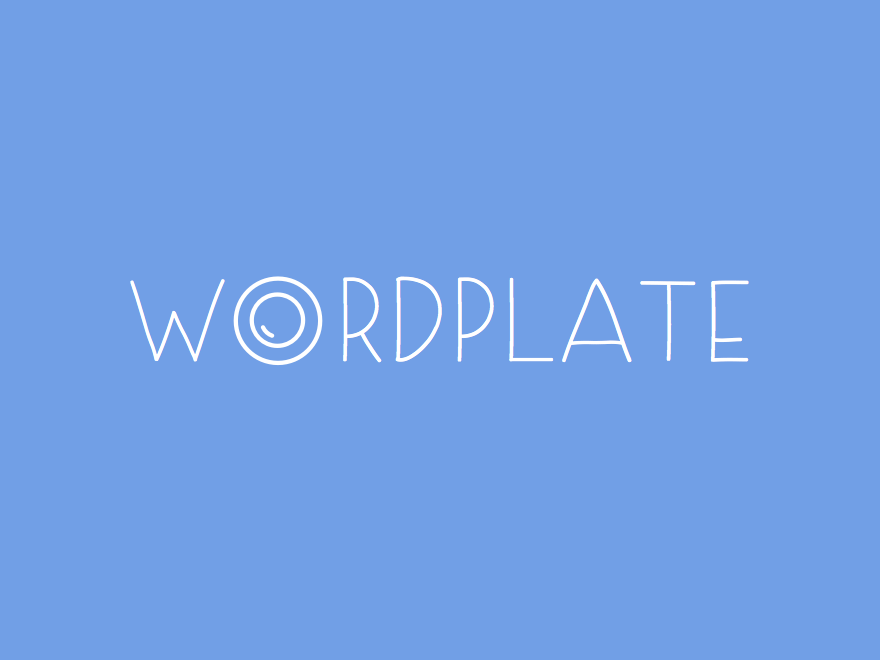
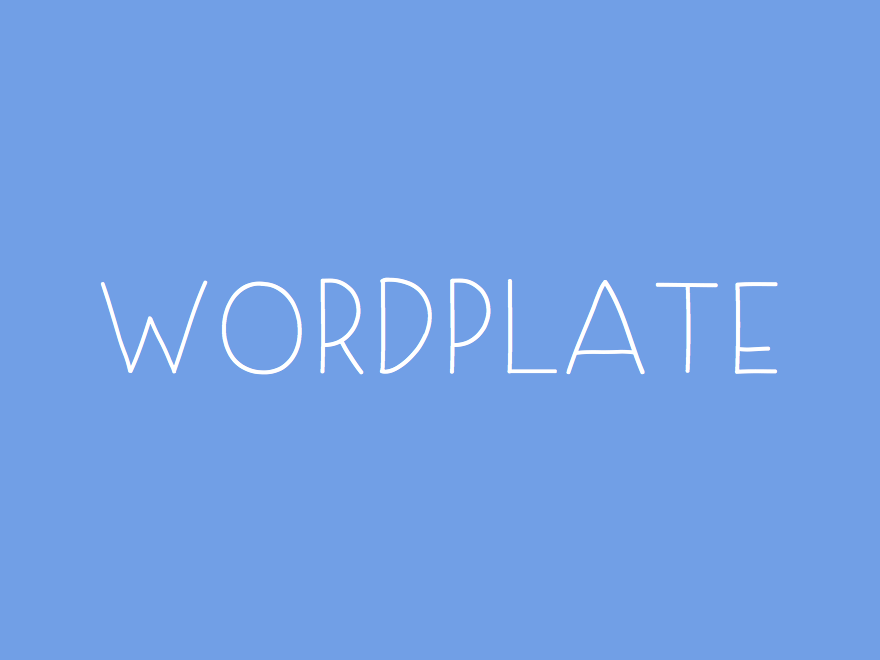
Update images

Changed region(s): [[0.092, 0.3939, 0.8898, 0.5758]]

diff --git a/README.md b/README.md
@@ -1,9 +1,9 @@
 WordPlate
 =========
 
-![wordplate](https://cloud.githubusercontent.com/assets/499192/9404207/ba83bdc4-47ed-11e5-9e30-269c0c343b55.png)
+![wordplate](https://cloud.githubusercontent.com/assets/499192/9743256/a84e145c-5665-11e5-9ed1-235c0b395459.png)
 
-A [WordPress](https://github.com/WordPress/WordPress) boilerplate. This project is trying to simplify the way we're setting up a new WordPress project. [Don't repeat yourself](http://en.wikipedia.org/wiki/Don't_repeat_yourself).
+A [WordPress](https://github.com/WordPress/WordPress) boilerplate. This project is trying to simplify the way we're setting up a new WordPress projects. Following the [don't repeat yourself](http://en.wikipedia.org/wiki/Don't_repeat_yourself) principle.
 
 [![Build Status](https://img.shields.io/travis/wordplate/framework/master.svg?style=flat)](https://travis-ci.org/wordplate/framework)
 [![Latest Version](https://img.shields.io/github/release/wordplate/wordplate.svg?style=flat)](https://github.com/wordplate/wordplate/releases)
